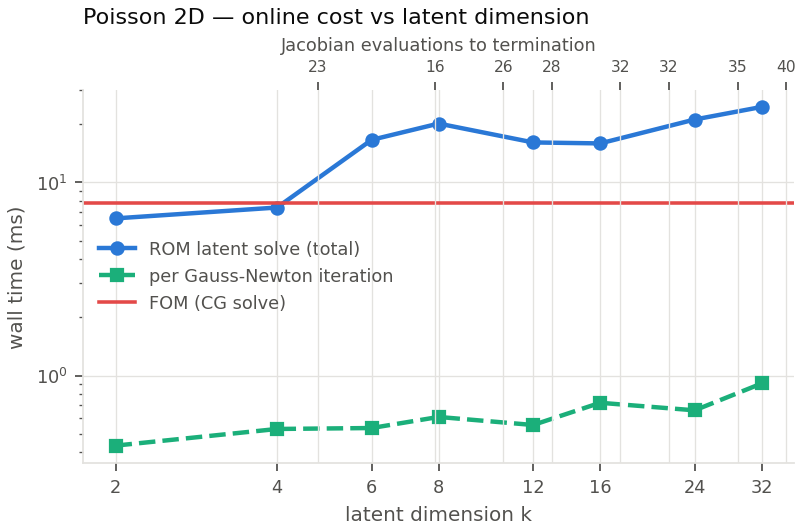
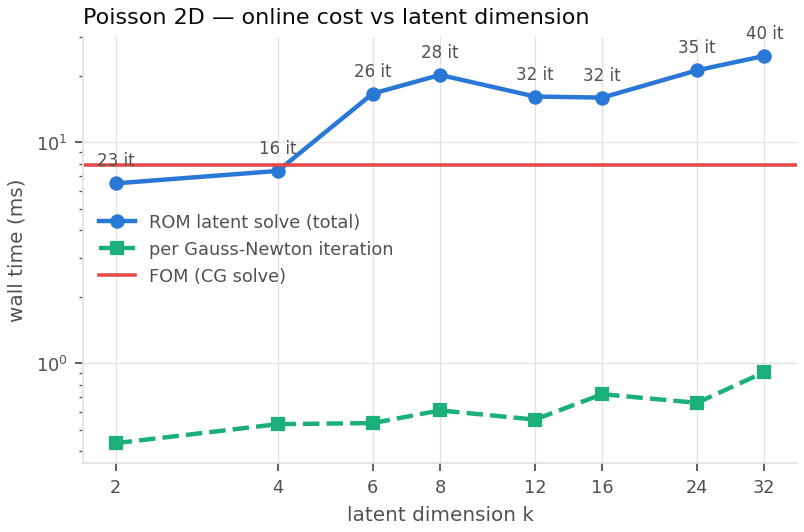
poisson2d-rom-objective: figure polish (accurate complexity-ladder title, corrected speedup labels, direct iteration labels)

diff --git a/experiments/poisson2d-rom-objective/followup/fu_summarize.py b/experiments/poisson2d-rom-objective/followup/fu_summarize.py
@@ -545,14 +545,12 @@ def fig_cost_vs_k(D):
     ax.plot(ks, [r["rom_s_per_iter"] * 1e3 for r in co], "s--", color=fs.C["aqua"],
             label="per Gauss-Newton iteration")
     ax.axhline(t["fom_cg_s"] * 1e3, color=fs.C["red"], ls="-", lw=1.6, label="FOM (CG solve)")
-    ax2 = ax.twiny()          # iteration counts as text, not a second y-scale
-    ax2.set_xlim(ax.get_xlim()); ax2.set_xscale("log", base=2)
-    ax2.set_xticks(ks)
-    ax2.set_xticklabels([f"{r['rom_iters_mean']:.0f}" for r in co], fontsize=7, color=fs.INK2)
-    ax2.set_xlabel("Jacobian evaluations to termination", fontsize=8, color=fs.INK2)
-    for sp in ("top", "right", "left", "bottom"):
-        ax2.spines[sp].set_visible(False)
     ax.set_xscale("log", base=2); ax.set_yscale("log")
+    # iteration counts as direct labels on the total-cost markers (no second scale)
+    for r_ in co:
+        ax.annotate(f"{r_['rom_iters_mean']:.0f} it", (r_["k"], r_["rom_solve_s"] * 1e3),
+                    xytext=(0, 8), textcoords="offset points", ha="center", fontsize=7.5,
+                    color=fs.INK2)
     ax.set_xticks(ks); ax.set_xticklabels([str(k) for k in ks])
     ax.set_xlabel("latent dimension k"); ax.set_ylabel("wall time (ms)")
     ax.set_title("Poisson 2D — online cost vs latent dimension", loc="left")
